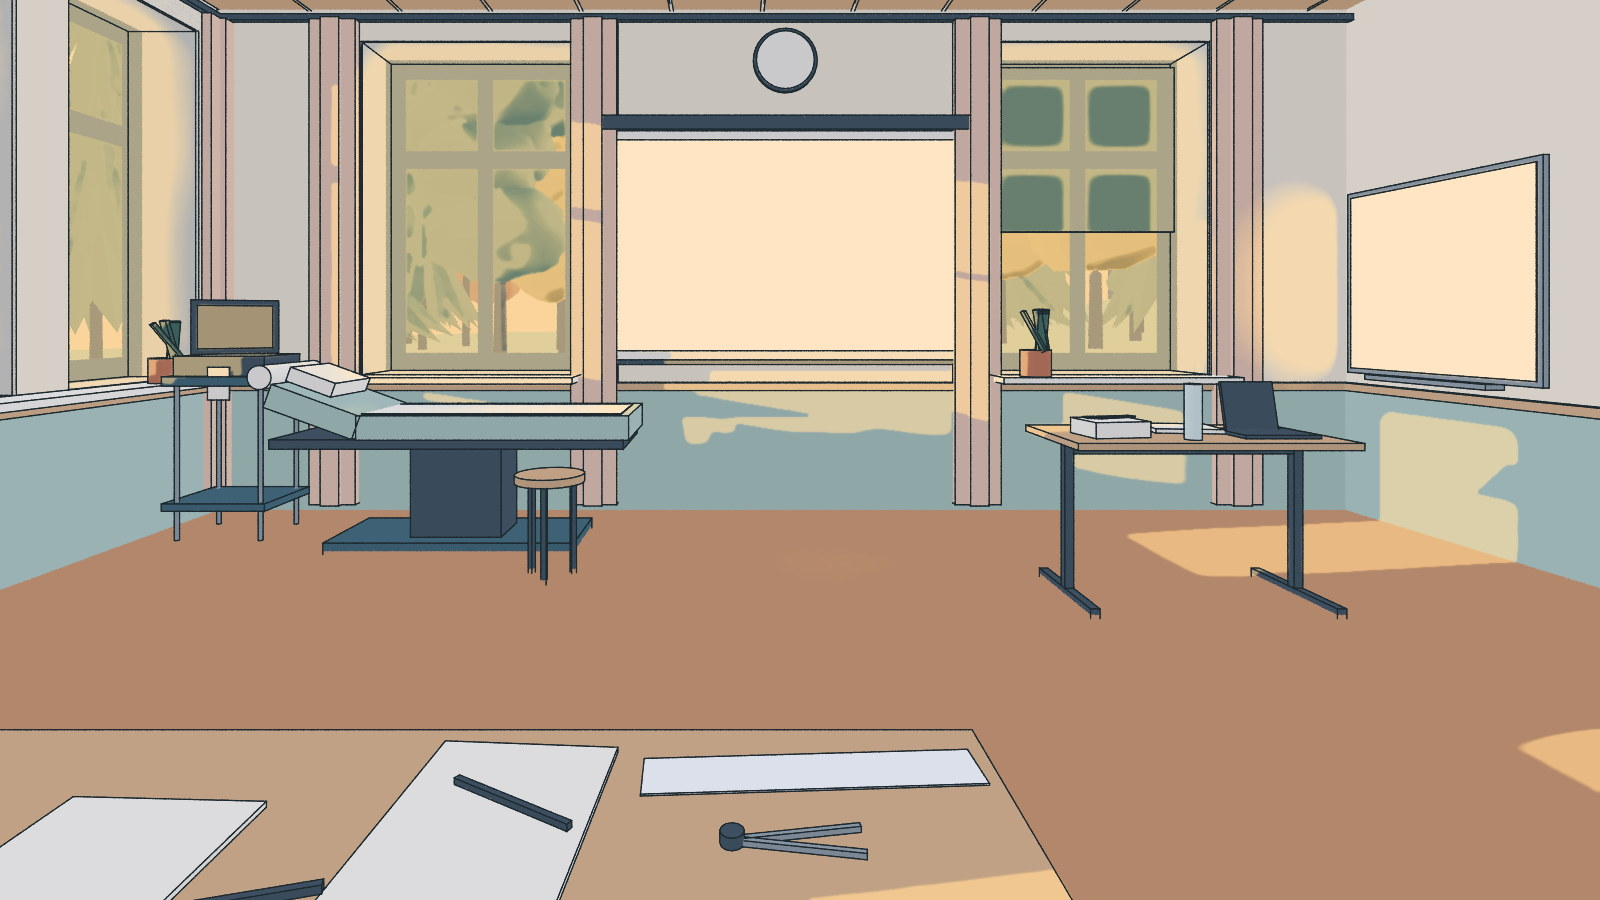
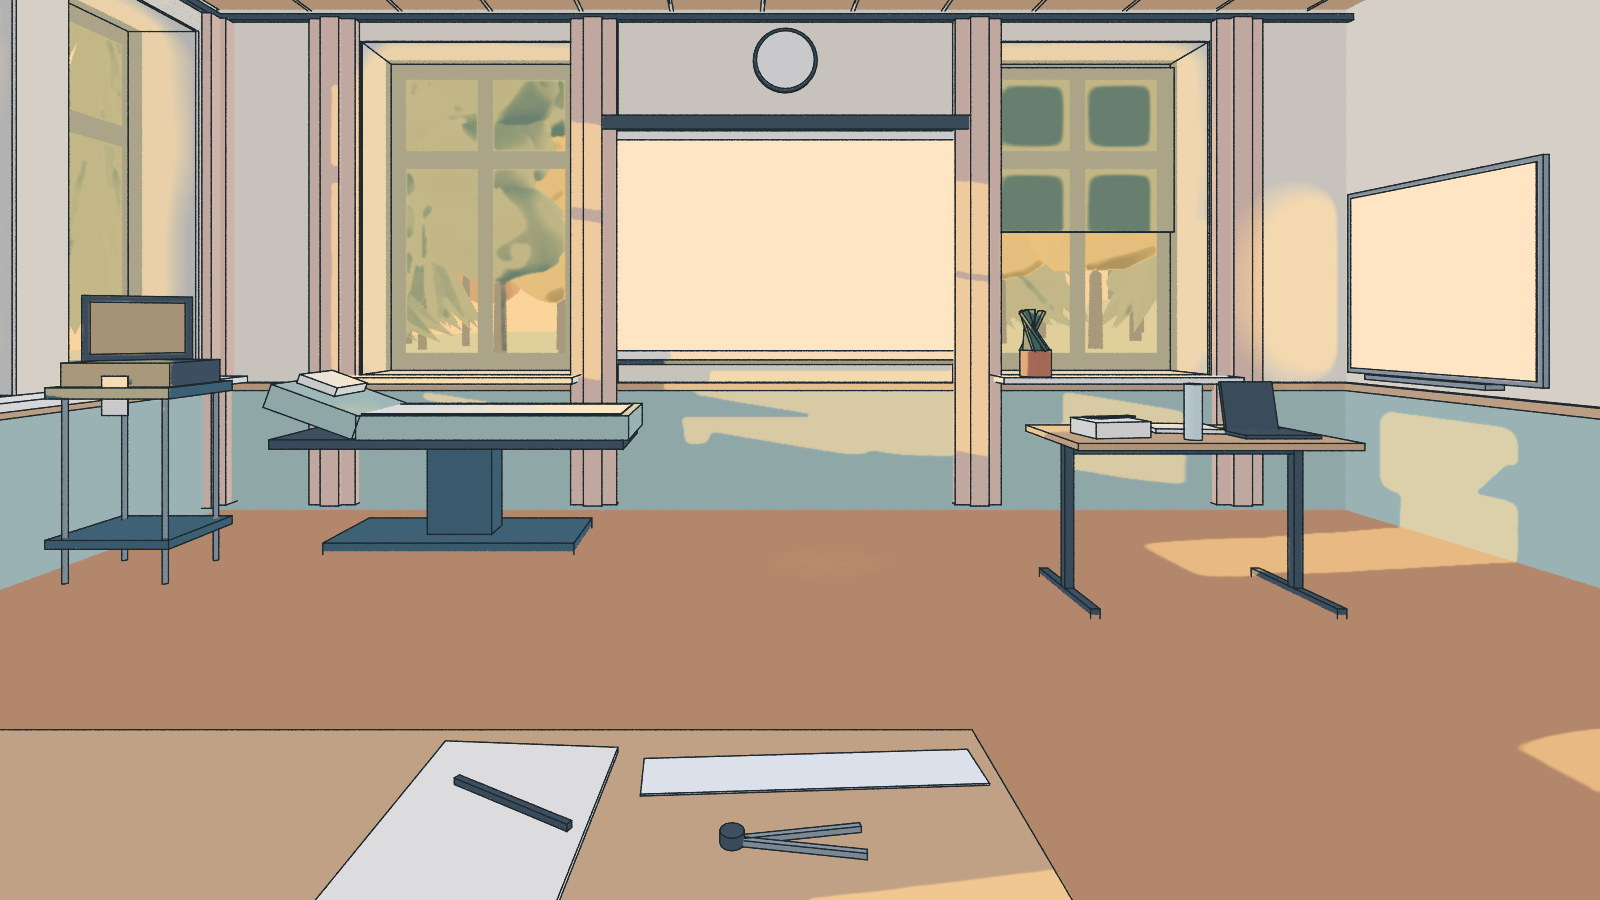
LEHRSAAL: linke Ecke entrümpelt (Wagen frei neben der Liege, ohne Hocker, Rolle, Topf, Flasche)

diff --git a/gen/blender/szene_lehrsaal.py b/gen/blender/szene_lehrsaal.py
@@ -166,7 +166,7 @@ def ausbau(h):
             kiste((0.05 * groesse, 0.02, 0.24 * groesse), (x + 0.04 * math.cos(math.radians(w)), y + 0.04 * math.sin(math.radians(w)),
                   BRUESTUNG + 0.24 * groesse), "ls_pflanze", dreh=w, kipp=k, name="LS Blatt")
 
-    pflanze(1.15, FENSTER_NISCHE + 0.14); pflanze(5.9, FENSTER_NISCHE + 0.13, 1.3); pflanze(12.2, FENSTER_WAND + 0.17, 0.9)
+    pflanze(5.9, FENSTER_NISCHE + 0.13, 1.3); pflanze(12.2, FENSTER_WAND + 0.17, 0.9)
     pflanze(GIEBEL + 0.16, 4.8, 1.2)                          # links am rechten Giebelfenster
 
     # ---------------- Decke: Holzlatten längs des Raums, Lichtbänder quer, zwei Ringleuchten, Beamer ----------------
@@ -219,33 +219,27 @@ def ausbau(h):
     box("LS Whiteboard Ablage", wx0 + 0.2, fw - 0.1, wx1 - 0.2, fw, wz0 - 0.06, wz0 - 0.03, "ls_metall")
 
     # Liege quer vor dem linken Giebelfenster (unter der Brüstung), Kopfende zur Fensterwand, Füße zur Leinwand: von der
-    # ersten Bank sieht man den Freiwilligen im Profil, seine rechte Seite (rote Klemme) zur Klasse. Tritt zur Raumseite,
-    # Wagen am Kopfende in der Ecke, Schirm zur Klasse.
+    # ersten Bank sieht man den Freiwilligen im Profil, seine rechte Seite (rote Klemme) zur Klasse. Wagen schräg vor dem
+    # Kopfende, im Bild mit Abstand links der Liege; kein Tritt, kein Hocker, keine Papierrolle (die Ecke wirkte voll).
     lx0, lx1, ly0, ly1, lo = 0.85, 1.5, 0.35, 2.3, 0.75
     lxM = (lx0 + lx1) / 2
     box("LS Liege Fuss", lx0 + 0.05, ly0 + 0.3, lx1 - 0.05, ly1 - 0.3, 0.0, 0.06, "ls_petrol")
-    box("LS Liege Saeule", lxM - 0.16, (ly0 + ly1) / 2 - 0.25, lxM + 0.16, (ly0 + ly1) / 2 + 0.25, 0.06, 0.57, "ls_dunkel")
+    box("LS Liege Saeule", lxM - 0.1, (ly0 + ly1) / 2 - 0.18, lxM + 0.1, (ly0 + ly1) / 2 + 0.18, 0.06, 0.57, "ls_petrol")
     box("LS Liege Rahmen", lx0 + 0.015, ly0 + 0.03, lx1 - 0.015, ly1 - 0.03, 0.57, 0.62, "ls_dunkel")
     kk = 0.5                                                   # Kopfteil 0,5 m, um 20° hochgestellt: liest sich als Liege, nicht als Tisch
     kiste((lx1 - lx0, ly1 - ly0 - kk, 0.13), (lxM, (ly0 + kk + ly1) / 2, lo - 0.065), "ls_mint", fase=0.03, name="LS Liege Polster")
     kiste((lx1 - lx0, kk, 0.13), (lxM, ly0 + kk - kk / 2 * math.cos(math.radians(20)), lo - 0.065 + kk / 2 * math.sin(math.radians(20))),
           "ls_mint", kipp=-20, fase=0.03, name="LS Liege Kopfteil")
     box("LS Liege Papier", lx0 + 0.07, ly0 + kk, lx1 - 0.07, ly1 - 0.05, lo, lo + 0.003, "ls_papier")
-    kiste((0.42, 0.26, 0.08), (lxM, ly0 + 0.2, lo + 0.17), "ls_papier", kipp=-20, fase=0.03, name="LS Kissen")
-    zyl(0.065, 0.56, (lxM, ly0 - 0.04, lo + 0.2), "ls_papier", dreh=(0, math.radians(90), 0), v=20, name="LS Papierrolle")
-    hx_, hy_ = lx1 + 0.3, ly1 - 0.35                           # Hocker an der Fußseite (statt des dunklen Tritts im Vordergrund)
-    zyl(0.17, 0.04, (hx_, hy_, 0.48), "ls_holz", v=24, name="LS Hocker")
-    for w in (0, 120, 240):
-        kiste((0.025, 0.025, 0.47), (hx_ + 0.12 * math.cos(math.radians(w)), hy_ + 0.12 * math.sin(math.radians(w)), 0.23), "ls_dunkel",
-              dreh=w, kipp=0, name="LS Hocker Bein")
-    wcx, wcy = lxM, 0.03                                       # EKG-Wagen am Kopfende
+    kiste((0.36, 0.22, 0.05), (lxM, ly0 + 0.22, lo + 0.15), "ls_papier", kipp=-20, fase=0.02, name="LS Kissen")
+    wcx, wcy = 1.9, 0.02                                       # EKG-Wagen schräg vor dem Kopfende, frei neben der Liege (im Bild links davon)
     box("LS Wagen Boden oben", wcx - 0.23, wcy - 0.28, wcx + 0.23, wcy + 0.28, 0.9, 0.95, "ls_petrol")
     box("LS Wagen Boden unten", wcx - 0.23, wcy - 0.28, wcx + 0.23, wcy + 0.28, 0.22, 0.26, "ls_petrol")
     for dx in (-0.18, 0.18):
         for dy in (-0.23, 0.23):
             zyl(0.012, 0.9, (wcx + dx, wcy + dy, 0.5), "ls_metall", v=8, name="LS Wagen Pfosten")
     box("LS Wagen Geraet", wcx - 0.18, wcy - 0.25, wcx + 0.18, wcy + 0.25, 0.95, 1.06, "ls_dunkel")
-    ws = 31.0                                                   # Schirm zur ersten Bank gedreht (Blick der Spielkamera)
+    ws = 38.0                                                   # Schirm zur ersten Bank gedreht (Blick der Spielkamera)
     nx, ny = math.cos(math.radians(ws)), math.sin(math.radians(ws))
     kiste((0.03, 0.42, 0.3), (wcx + 0.06, wcy + 0.02, 1.22), "ls_dunkel", dreh=ws, name="LS Wagen Schirmrahmen")
     kiste((0.004, 0.36, 0.24), (wcx + 0.06 + 0.017 * nx, wcy + 0.02 + 0.017 * ny, 1.22), "ls_glas", dreh=ws, name="LS Wagen Schirm")
@@ -301,8 +295,10 @@ def ausbau(h):
                         kiste((0.008, 0.14, 0.008), (xm + 0.06, yp + 0.17, TISCH_H + 0.01), "ls_dunkel", dreh=w2, name="LS Stift")
                 if platz:
                     werkzeug(xm, yp)
-            if zr.random() < 0.6:                          # eine Wasserflasche je zweitem Tisch
-                zyl(0.028, 0.2, (xm - 0.15, ya + 0.25 + zr.uniform(0, 1.2), TISCH_H + 0.1), "ls_flasche", v=14, name="LS Flasche")
+            if zr.random() < 0.6:                          # eine Wasserflasche je zweitem Tisch, nicht auf der Bank der Spielerin
+                yf = ya + 0.25 + zr.uniform(0, 1.2)        # (dort stand sie angeschnitten im unteren Bildrand)
+                if not (r == 0 and (ya, yb) == BLOECKE[0]):
+                    zyl(0.028, 0.2, (xm - 0.15, yf, TISCH_H + 0.1), "ls_flasche", v=14, name="LS Flasche")
 
     # Stehleuchten zwischen den Fenstern (aus): Fuß, Stange, Schirm
     for (x, y) in ((7.75, 0.85), (10.85, 0.85)):

diff --git a/docs/raeume/lehrsaal.md b/docs/raeume/lehrsaal.md
@@ -193,8 +193,8 @@ Hauskoordinaten (KRANKENHAUS §2), Werte in `gen/blender/szene_lehrsaal.py` oben
 | Leinwand | 2,4 × 1,5 m, Mitte y 3,2, Unterkante z 1,0, an der Stirnwand |
 | Whiteboard | Flurwand ganz vorn im Eck (Wunsch des Nutzers), x 0,55 … 1,75, z 0,95 … 2,05; von der ersten Bank schräg am rechten Bildrand. Wanduhr Ø 0,42 über der Leinwand, Mitte z 2,97 |
 | Dozententisch | 1,2 × 0,6 m (Pult, vom Nutzer verkleinert), Mitte (2,1 / 4,9), quer zum Saal |
-| Liege | 1,95 × 0,65 m, quer vor dem linken Giebelfenster: x 0,85 … 1,5, y 0,35 … 2,3, Liegefläche 0,75 m (unter der Brüstung), Kopfteil 0,5 m um 20° hochgestellt mit Kissen (liest sich als Liege), Kopfende zur Fensterwand, Füße zur Leinwand, Holzhocker an der Fußseite statt eines dunklen Tritts; der Freiwillige zeigt der Klasse seine rechte Seite |
-| EKG-Wagen | Mitte (1,175 / 0,03), am Kopfende in der Ecke, Schirm 0,36 × 0,24 um 31° zur ersten Bank gedreht |
+| Liege | 1,95 × 0,65 m, quer vor dem linken Giebelfenster: x 0,85 … 1,5, y 0,35 … 2,3, Liegefläche 0,75 m (unter der Brüstung), Kopfteil 0,5 m um 20° hochgestellt mit Kissen (liest sich als Liege), Kopfende zur Fensterwand, Füße zur Leinwand, kein Tritt, kein Hocker, keine Papierrolle (die Ecke wirkte voll, Nutzer 25.10.2026); der Freiwillige zeigt der Klasse seine rechte Seite |
+| EKG-Wagen | Mitte (1,9 / 0,02), schräg vor dem Kopfende, im Bild mit Abstand links der Liege; Schirm 0,36 × 0,24 um 38° zur ersten Bank gedreht |
 | Tischreihen | Tischmitten x 5,0 / 6,2 / 7,4 / 8,6 / 9,8; Blöcke y 1,35 … 3,15 und 4,05 … 5,85; Tisch 0,5 tief, 0,74 hoch; Stühle 0,55 hinter der Tischmitte |
 | Decke | Latten z 3,31 … 3,36, Lichtbänder darunter, Ringleuchten Ø 1,1 m auf z 2,75 bei x 7,8 |
 | Figuren | Dr. Wieser 1,72 m, Jonas 1,80 m liegend (Kopf zur Fensterwand); Plätze werden mit der Ebenen-Pipeline neu gesetzt (Vorschlag: Wieser zwischen Liege und Leinwand auf dem freien Boden, nicht vor der Leinwand) |
